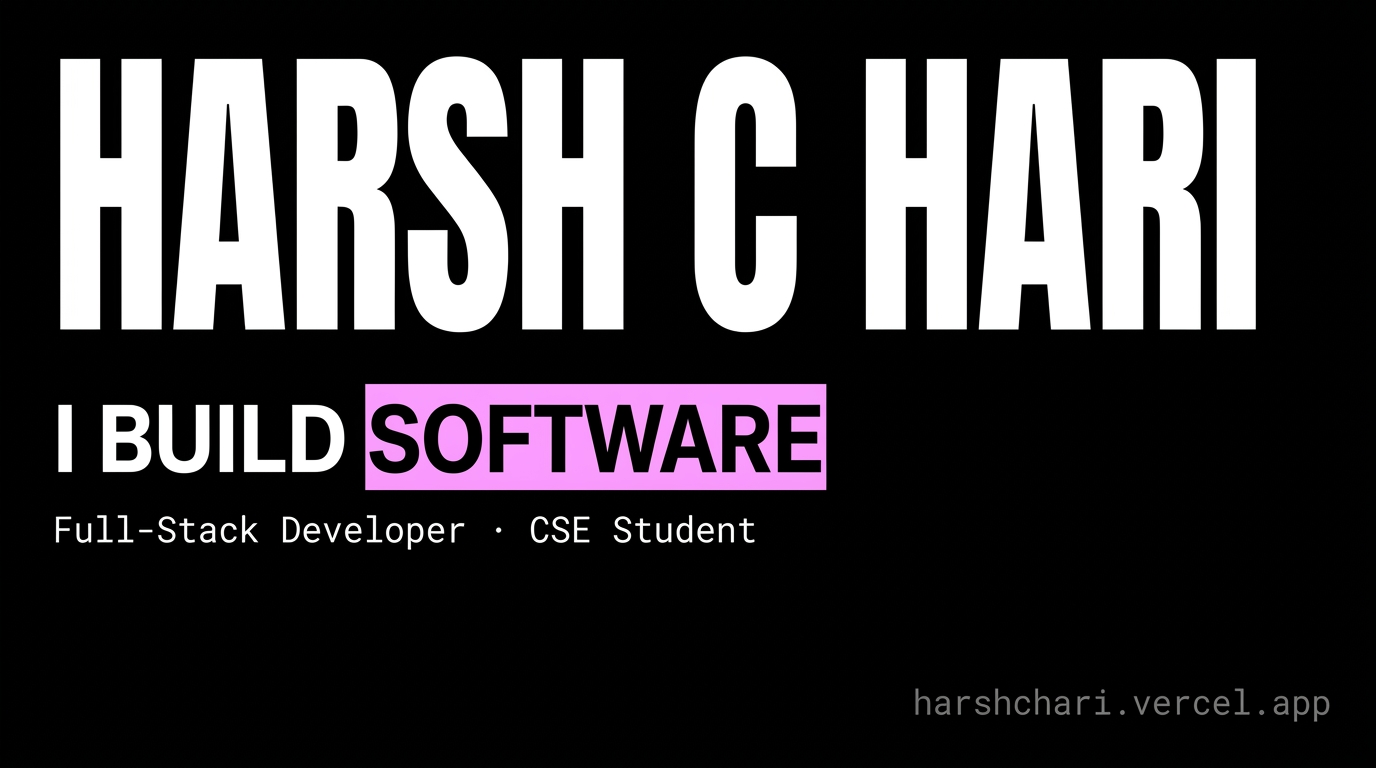
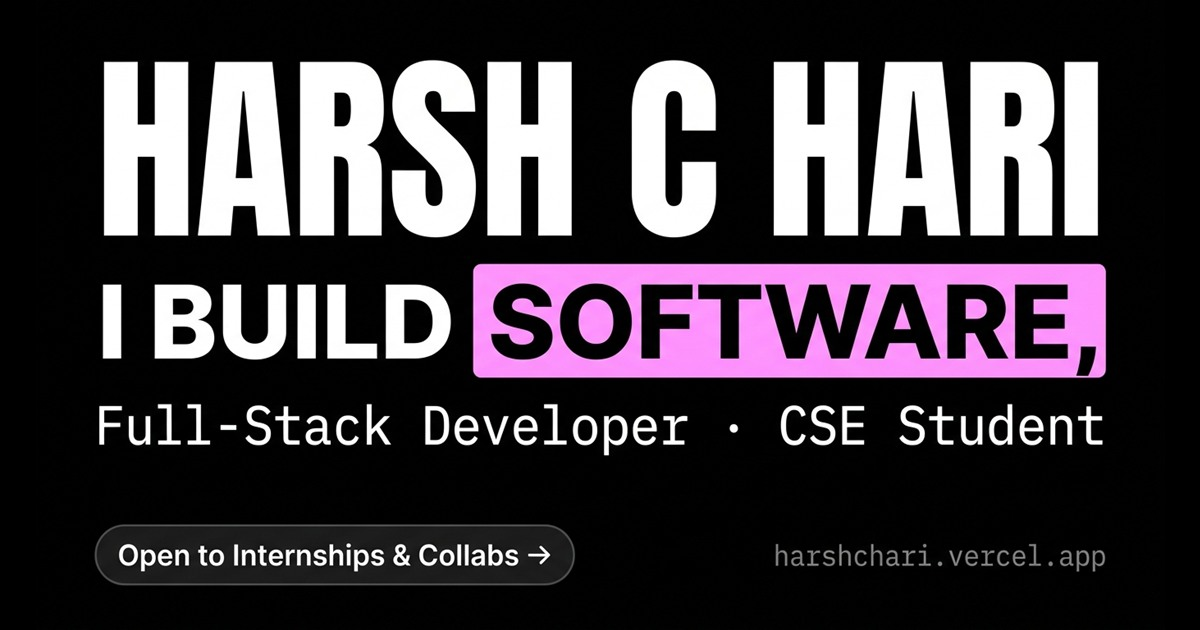
chore: update open graph image dimensions to 1200x630 and replace og-image asset

diff --git a/index.html b/index.html
@@ -21,8 +21,8 @@
   <meta property="og:description" content="CSE student and full-stack developer building experimental software systems, AI assistants, and campus platforms.">
   <meta property="og:url"         content="https://harshchari.vercel.app/">
   <meta property="og:image"       content="https://harshchari.vercel.app/og-image.jpg">
-  <meta property="og:image:width"  content="1376">
-  <meta property="og:image:height" content="768">
+  <meta property="og:image:width"  content="1200">
+  <meta property="og:image:height" content="630">
   <meta property="og:image:alt"   content="Harsh C Hari — Full-Stack Developer &amp; CSE Student">
   <meta property="og:locale"      content="en_IN">
 
